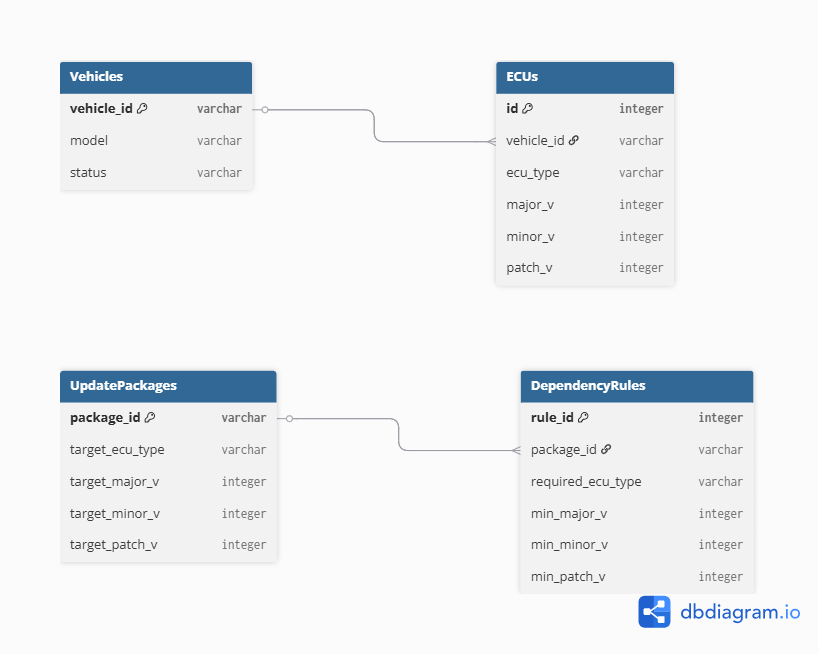
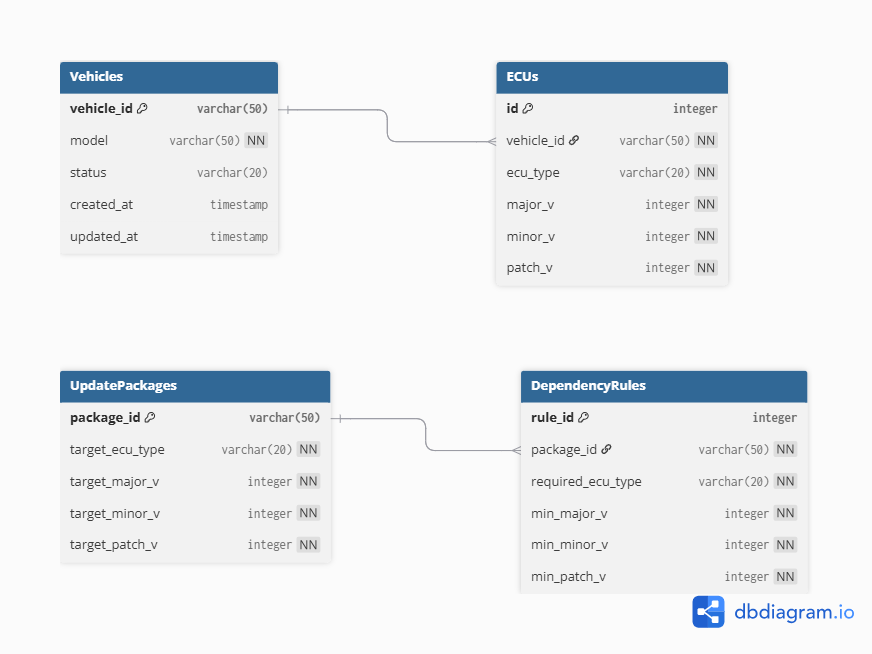
📝 리드미 업데이트 및 테스트 확인
로컬 테스트 확인

diff --git a/scripts/populate_db.py b/scripts/populate_db.py
@@ -1,0 +1,63 @@
+import os
+from hdbcli import dbapi
+from dotenv import load_dotenv
+
+# .env 파일에서 환경변수 로드
+load_dotenv()
+
+def populate_data():
+    conn = None
+    try:
+        # 1. DB 연결 (환경변수 사용)
+        conn = dbapi.connect(
+            address=os.getenv("HANA_ADDRESS"),
+            port=int(os.getenv("HANA_PORT", 30015)),
+            user=os.getenv("HANA_USER"),
+            password=os.getenv("HANA_PWD")
+        )
+        cursor = conn.cursor()
+
+        print(">>> 기존 데이터 초기화 중...")
+        # 외래키 제약 조건을 고려한 삭제 순서
+        cursor.execute("DELETE FROM DEPENDENCY_RULES")
+        cursor.execute("DELETE FROM UPDATE_PACKAGES")
+        cursor.execute("DELETE FROM ECUS")
+        cursor.execute("DELETE FROM VEHICLES")
+
+        # 2. 테스트 차량 데이터 삽입 (리드미 status 반영)
+        vehicles = [
+            ("V001", "IONIQ6", "READY"),
+            ("V002", "GV80", "READY")
+        ]
+        cursor.executemany("INSERT INTO VEHICLES (VEHICLE_ID, MODEL, STATUS) VALUES (?, ?, ?)", vehicles)
+
+        # 3. 테스트 ECU 현황 데이터 삽입 (Semantic Versioning 구조)
+        # 시나리오: BCM 1.2.0 이상이 필요한 상황
+        ecus = [
+            (1, "V001", "BMS", 2, 0, 0),
+            (2, "V001", "BCM", 1, 5, 0),  # V001: 1.5.0 (충족)
+            (3, "V002", "BMS", 2, 0, 0),
+            (4, "V002", "BCM", 1, 0, 0)   # V002: 1.0.0 (미달)
+        ]
+        cursor.executemany("INSERT INTO ECUS (ID, VEHICLE_ID, ECU_TYPE, MAJOR_V, MINOR_V, PATCH_V) VALUES (?, ?, ?, ?, ?, ?)", ecus)
+
+        # 4. 업데이트 패키지 데이터 삽입
+        cursor.execute("INSERT INTO UPDATE_PACKAGES (PACKAGE_ID, TARGET_ECU_TYPE, TARGET_MAJOR_V, TARGET_MINOR_V, TARGET_PATCH_V) VALUES (?, ?, ?, ?, ?)",
+                       ('PKG_BMS_30', 'BMS', 3, 0, 0))
+
+        # 5. 의존성 규칙 데이터 삽입
+        # 규칙: 'PKG_BMS_30' 설치 시 'BCM' 제어기가 '1.2.0' 이상이어야 함
+        cursor.execute("INSERT INTO DEPENDENCY_RULES (RULE_ID, PACKAGE_ID, REQUIRED_ECU_TYPE, MIN_MAJOR_V, MIN_MINOR_V, MIN_PATCH_V) VALUES (?, ?, ?, ?, ?, ?)",
+                       (101, 'PKG_BMS_30', 'BCM', 1, 2, 0))
+
+        conn.commit()
+        print("SAP HANA 샘플 데이터 주입 완료!")
+
+    except Exception as e:
+        print(f"데이터 주입 실패: {e}")
+    finally:
+        if conn:
+            conn.close()
+
+if __name__ == "__main__":
+    populate_data()
